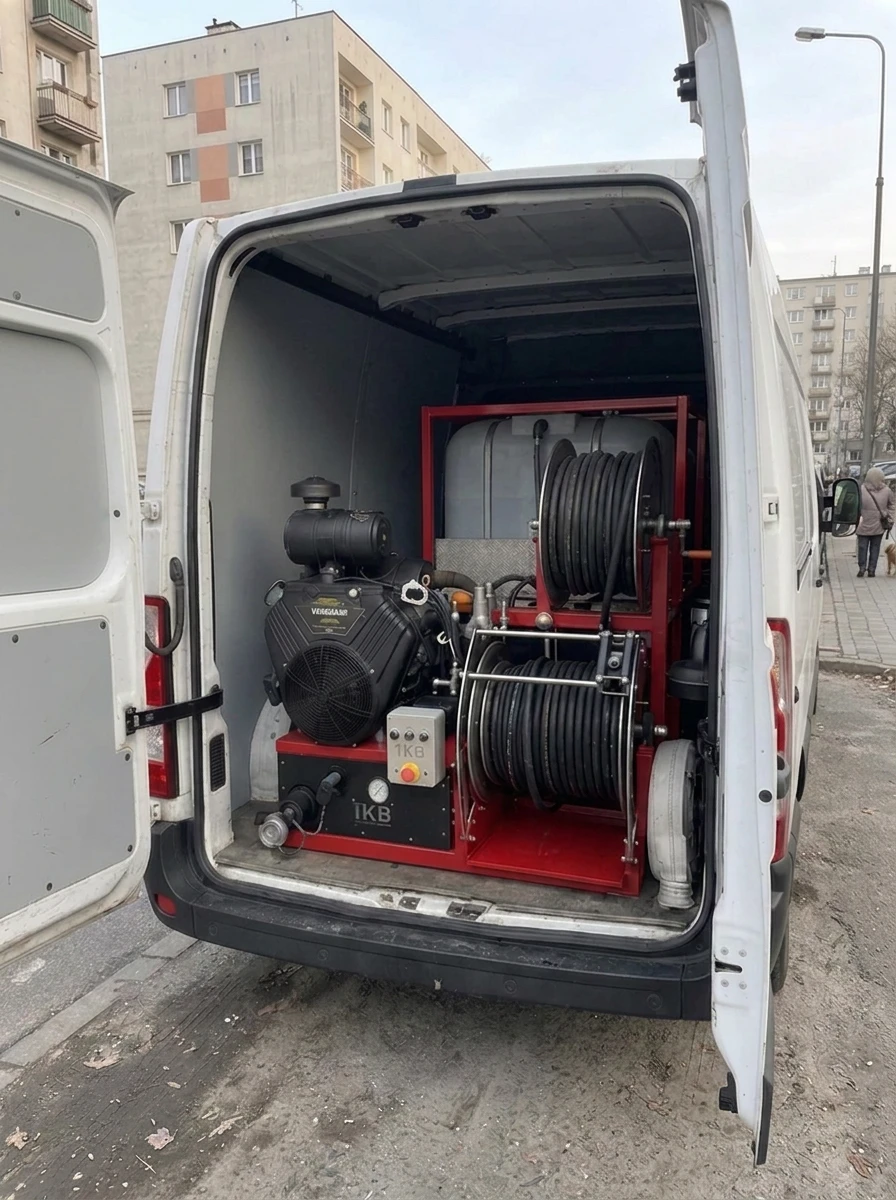
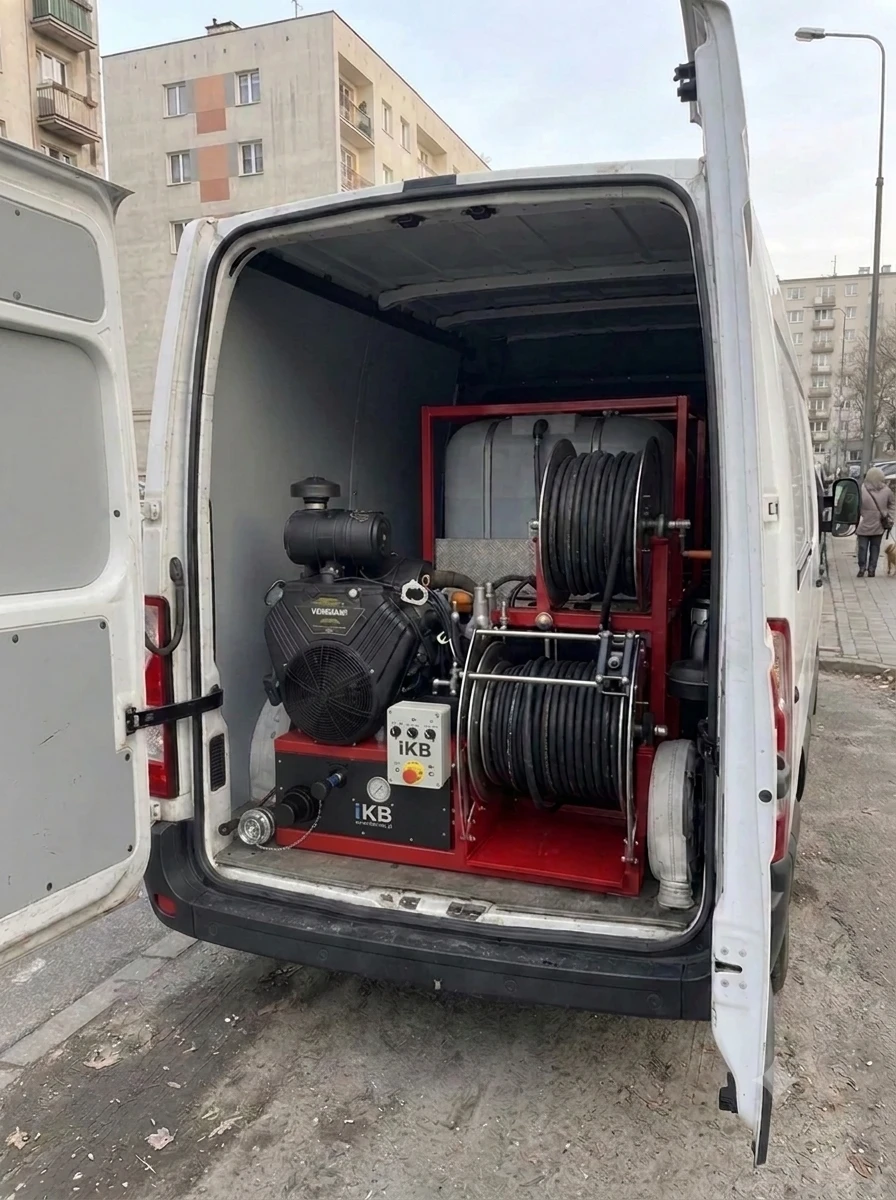
nghvgbcfds

Changed region(s): [[0.4062, 0.5858, 0.5312, 0.7092], [0.2188, 0.6167, 0.375, 0.74], [0.8438, 0.8633, 0.9062, 0.925]]

diff --git a/memory.md b/memory.md
@@ -42,7 +42,7 @@ Zrobione (wg git, wieczór 2026-06-11):
 - **Wuko a sprężyna — NIE robić osobnej podstrony (decyzja 2026-07-10).** Najpierw powstała podstrona `/wuko-a-sprezyna-elektryczna`, ale właściciel słusznie uznał, że kanibalizuje istniejący artykuł poradnika `wuko-czy-sprezyna-elektryczna.md` — podstronę USUNIĘTO. Zamiast niej artykuł wzbogacono o sekcję „Stare żeliwo i zapchany pion" (tekst właściciela: żeliwo + pion, na którym woda cofa się w kilku mieszkaniach) z frazami „wuko w Warszawie" (link `/`) i „wuko na Białołęce" (link `/wukobialoleka`). Wniosek na przyszłość: temat wuko-vs-sprężyna należy do tego jednego artykułu, nie dublować go podstroną.
 
 ## Realizacje (stan po 2026-07-19)
-- **Na stronie głównej jest JEDNA sekcja realizacji**: `RealizacjaZlew.astro` (między WukoMethod a VideoSection, tło #f8fafc, eyebrow „Kolejna realizacja z terenu") — ścieki podchodzące w technicznym zlewie w węźle cieplnym bloku, czyszczenie przykanalika wuko. Zlecenie z Wawra (poprawki właściciela: zlew w węźle cieplnym, NIE kratka w piwnicy; Wawer, NIE Targówek; „na Wawrze" dopisane do h2 na wyraźne polecenie właściciela). Link do `/wukowawer` w CTA. Zdjęcie: `public/img/realizacje/wuko-warszawa.webp` (896×1200 pion, podmiana 2026-07-26; źródło: `Desktop\hf_20260726_115925_c4f955ce-13c1-4136-a7d5-caedbc27f699.png`; poprzednie `wuko-agregat-cisnieniowy-auto.webp` skasowane).
+- **Na stronie głównej jest JEDNA sekcja realizacji**: `RealizacjaZlew.astro` (między WukoMethod a VideoSection, tło #f8fafc, eyebrow „Kolejna realizacja z terenu") — ścieki podchodzące w technicznym zlewie w węźle cieplnym bloku, czyszczenie przykanalika wuko. Zlecenie z Wawra (poprawki właściciela: zlew w węźle cieplnym, NIE kratka w piwnicy; Wawer, NIE Targówek; „na Wawrze" dopisane do h2 na wyraźne polecenie właściciela). Link do `/wukowawer` w CTA. Zdjęcie: `public/img/realizacje/wuko-warszawa.webp` (896×1200 pion, podmiana 2026-07-26; źródło: `Desktop\Gemini_Generated_Image_wzrc4owzrc4owzrc.png` (wersja z czytelnym logo iKB); poprzednie `wuko-agregat-cisnieniowy-auto.webp` skasowane).
 - **Pierwsza realizacja (szambo, Białołęka) wróciła do poradnika**: właściciel kazał wyciąć ją z index → przywrócony z gita oryginalny artykuł `src/content/poradnik/zator-w-przylaczu-do-szamba.md` (stan z commita 31a251a, z FAQ; pubDate zmieniona na 2026-07-19 na polecenie właściciela). Komponent `Realizacja.astro` USUNIĘTY.
 - Historia zmian węzła cieplnego 2026-07-19: najpierw osobna podstrona `/realizacje/zlew-w-wezle-cieplnym/` (FAQ + JSON-LD), potem na polecenie właściciela cały artykuł jako sekcja na index — podstrona i kafelek-zajawka usunięte. FAQ z podstrony nie przeniesiono (index ma własny FAQPage; wątek drożnego syfonu wpleciony w sekcję „Objaw").
 - Wniosek: miejsce publikacji realizacji (sekcja na index vs artykuł w poradniku) każdorazowo potwierdzać z właścicielem — decyzje bywały w obie strony.
